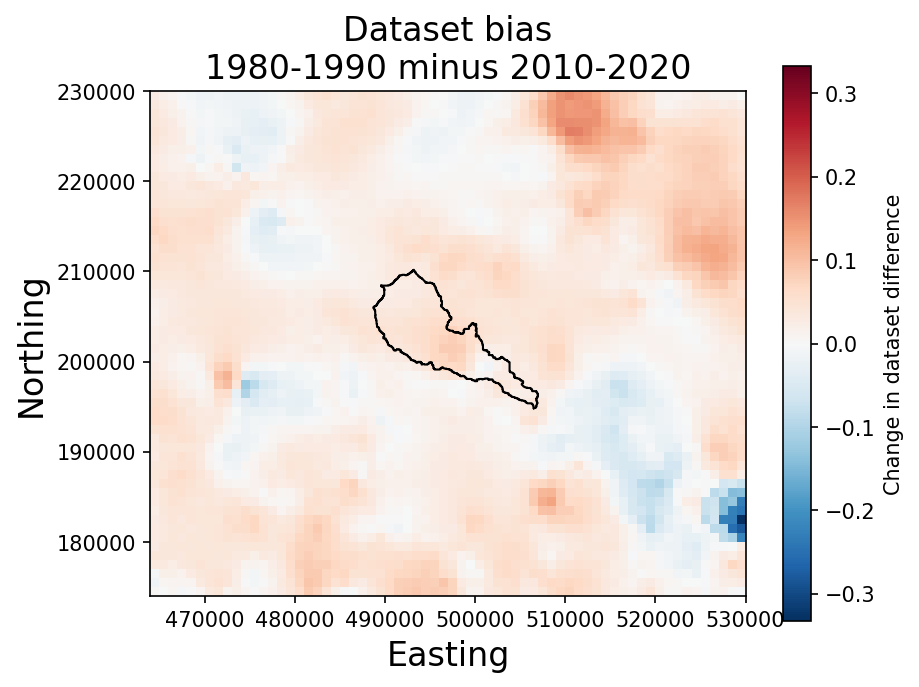
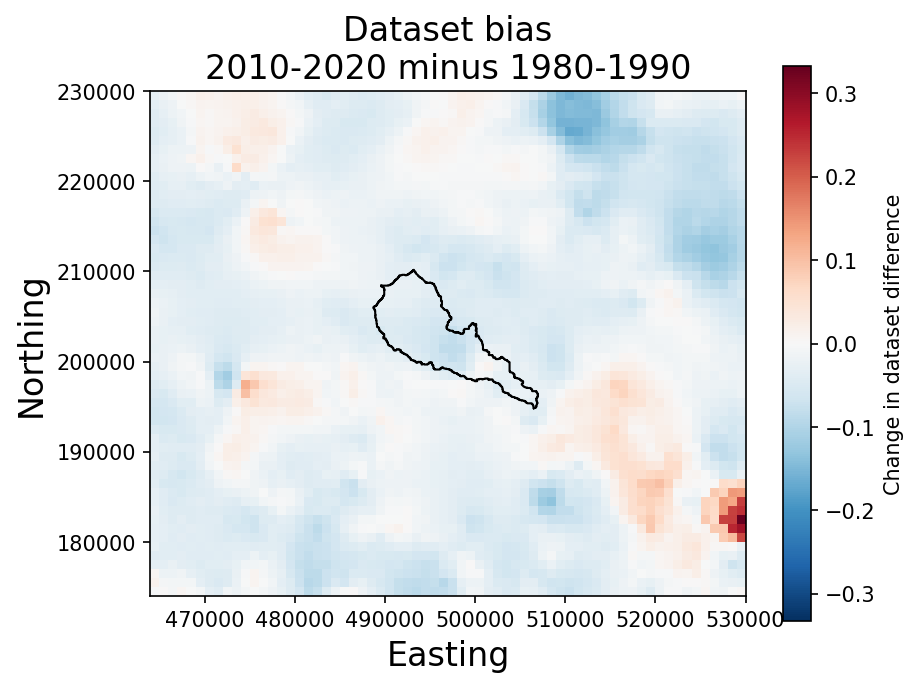
update diff fig

diff --git a/README.md b/README.md
@@ -16,7 +16,7 @@ In the below figures, rain gauges are represented by:
 <img src="./figures/chess_gauges_and_distance_to_gauge_01_Jan_2020.png" width="500">
 
 ### Compare minimum distance to nearest gauge (decadal means)
-There are were more rain gauges on average across the catchment during the 1980s compared with the 2010s.  
+There were more rain gauges on average across the catchment during the 1980s compared with the 2010s.  
 Below we compare the decadal mean distance to nearest gauge:  
 <img src="./figures/chess_min_dist_1980to1990mean.png" width="500">
 
@@ -30,6 +30,7 @@ Next, we examine the differences between the CEH-GEAR and the HadUK-Grid (red me
 <img src="./figures/chess_ceh_vs_haduk_2010to2020mean.png" width="500">  
  
  **Difference between two decade means**  
-Across most of the catchment the difference between the two datasets (here bias) has increased.  
-One exception is in the south east of the study region.   
+Across most of the catchment the difference between the two datasets (here bias) has increased towards HadUK-Grid bias.  
+One exception is in the south east of the study region (where CEH bias has grown).   
+Potentially, a rain gauge was added towards the south-east that has only been included in the CEH-GEAR?  
 <img src="./figures/chess_ceh_vs_haduk_decade_mean_diff.png" width="500"> 
